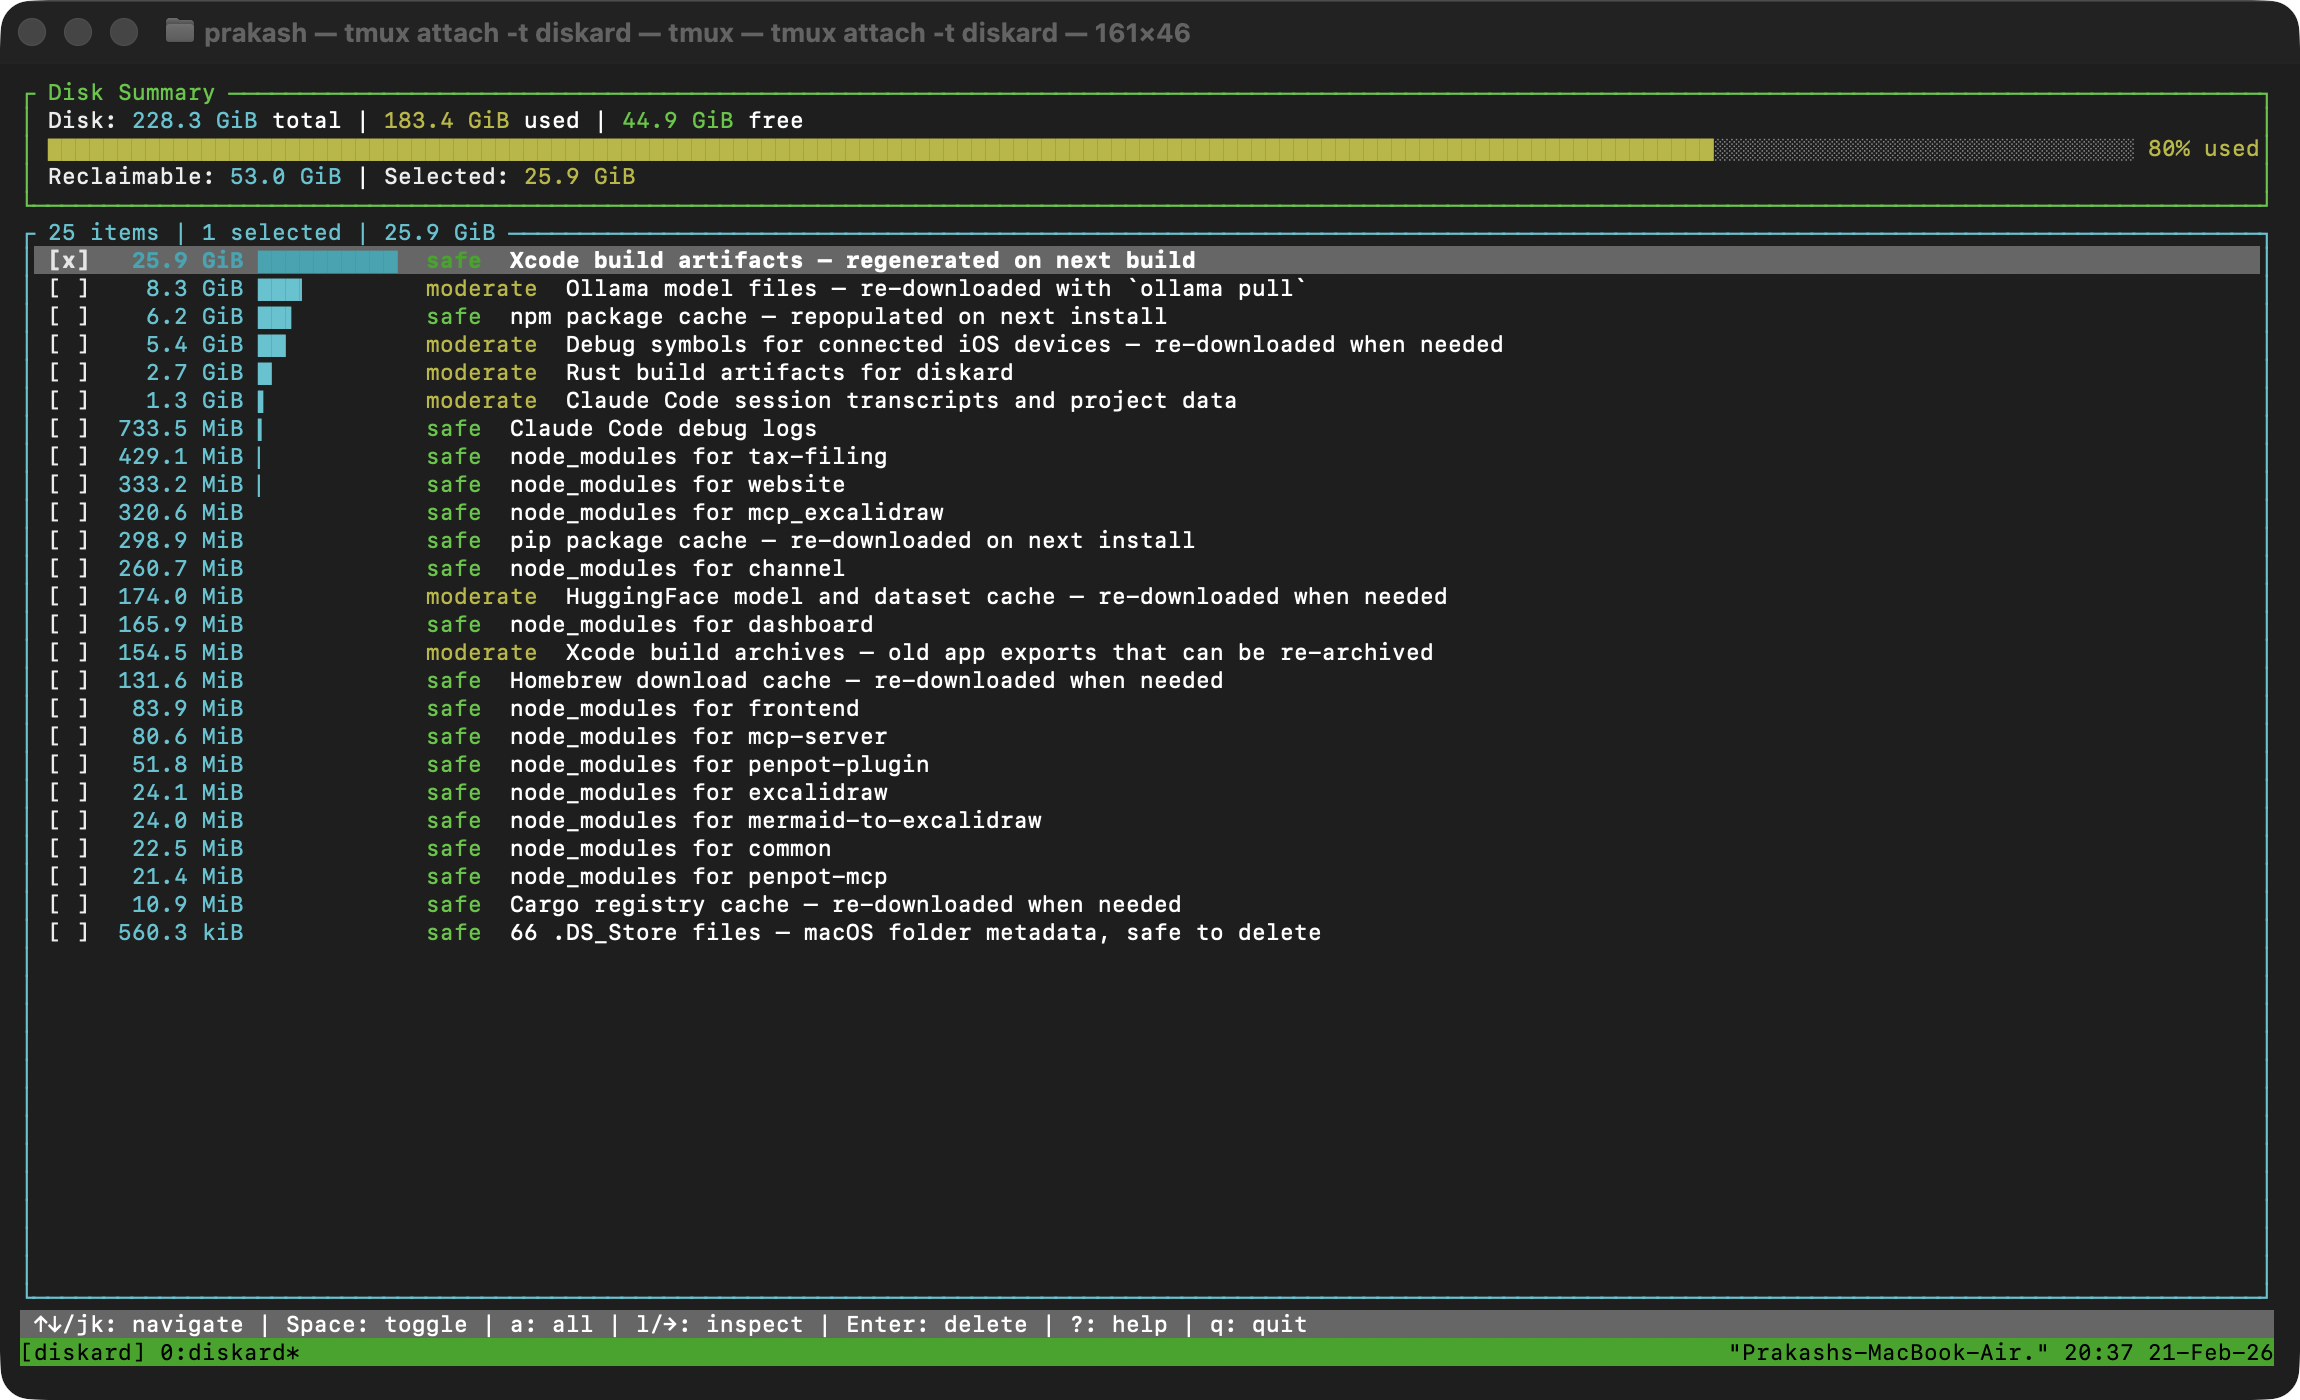
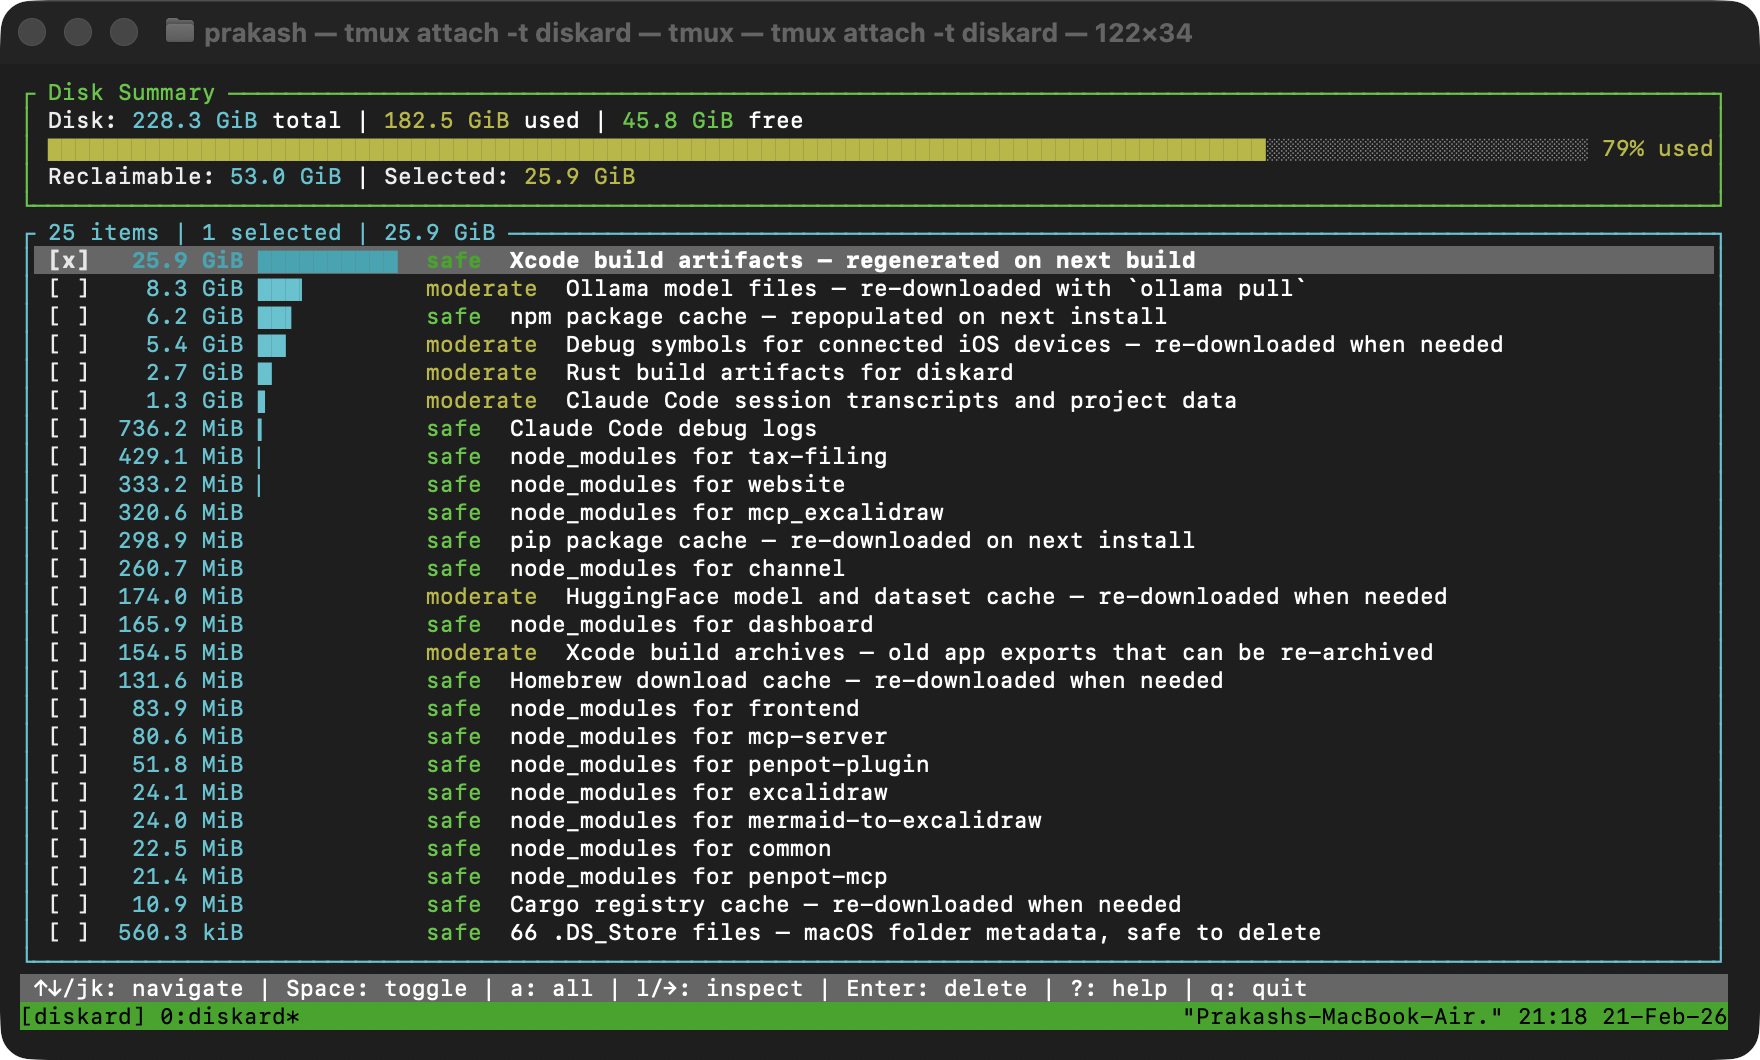
feat(diskard): retake screenshots and add stacked image layout
- Retake TUI screenshots with tighter terminal window (120x32)
- Add imageLayout frontmatter field for per-project layout control
- Stack wide screenshots vertically instead of 3-column grid

Changed region(s): [[0.0, 0.0, 1.0, 1.0], [0.6562, 0.3113, 0.8438, 0.3425]]

diff --git a/src/pages/ProjectDetail.jsx b/src/pages/ProjectDetail.jsx
@@ -280,7 +280,7 @@ const ProjectDetail = () => {
             {project.images && project.images.length > 0 && (
               <motion.section className="project-section glass-card" variants={itemVariants}>
                 <h2 className="gradient-text">Screenshots</h2>
-                <div className="project-images-grid">
+                <div className={`project-images-grid${project.imageLayout === 'stacked' ? ' project-images-stacked' : ''}`}>
                   {project.images.map((image, index) => (
                     <div key={index} className="project-image-item">
                       <img src={image.path} alt={image.caption} />

diff --git a/src/data/projectLoader.js b/src/data/projectLoader.js
@@ -32,6 +32,7 @@ const unsortedProjects = Object.entries(modules).map(([path, content]) => {
     relatedLinks: data.relatedLinks || [],
     relatedVideos: data.relatedVideos || [],
     images: data.images || [],
+    imageLayout: data.imageLayout,
     installation: data.installation,
     content: markdownContent,
   };

diff --git a/src/pages/ProjectDetail.css b/src/pages/ProjectDetail.css
@@ -331,6 +331,12 @@
   gap: 2rem;
 }
 
+.project-images-stacked {
+  grid-template-columns: 1fr;
+  max-width: 800px;
+  margin: 0 auto;
+}
+
 .project-image-item {
   display: flex;
   flex-direction: column;

diff --git a/src/content/projects/diskard.md b/src/content/projects/diskard.md
@@ -12,6 +12,7 @@ gradient: var(--gradient-tertiary)
 thumbnail: /assets/img/projects/diskard/thumbnail.svg
 heroImage: /assets/img/projects/diskard/hero.svg
 github: https://github.com/connectwithprakash/diskard
+imageLayout: stacked
 images:
   - path: /assets/img/projects/diskard/01-scan-results.png
     caption: Interactive TUI showing scan results with 26 reclaimable items sorted by size
